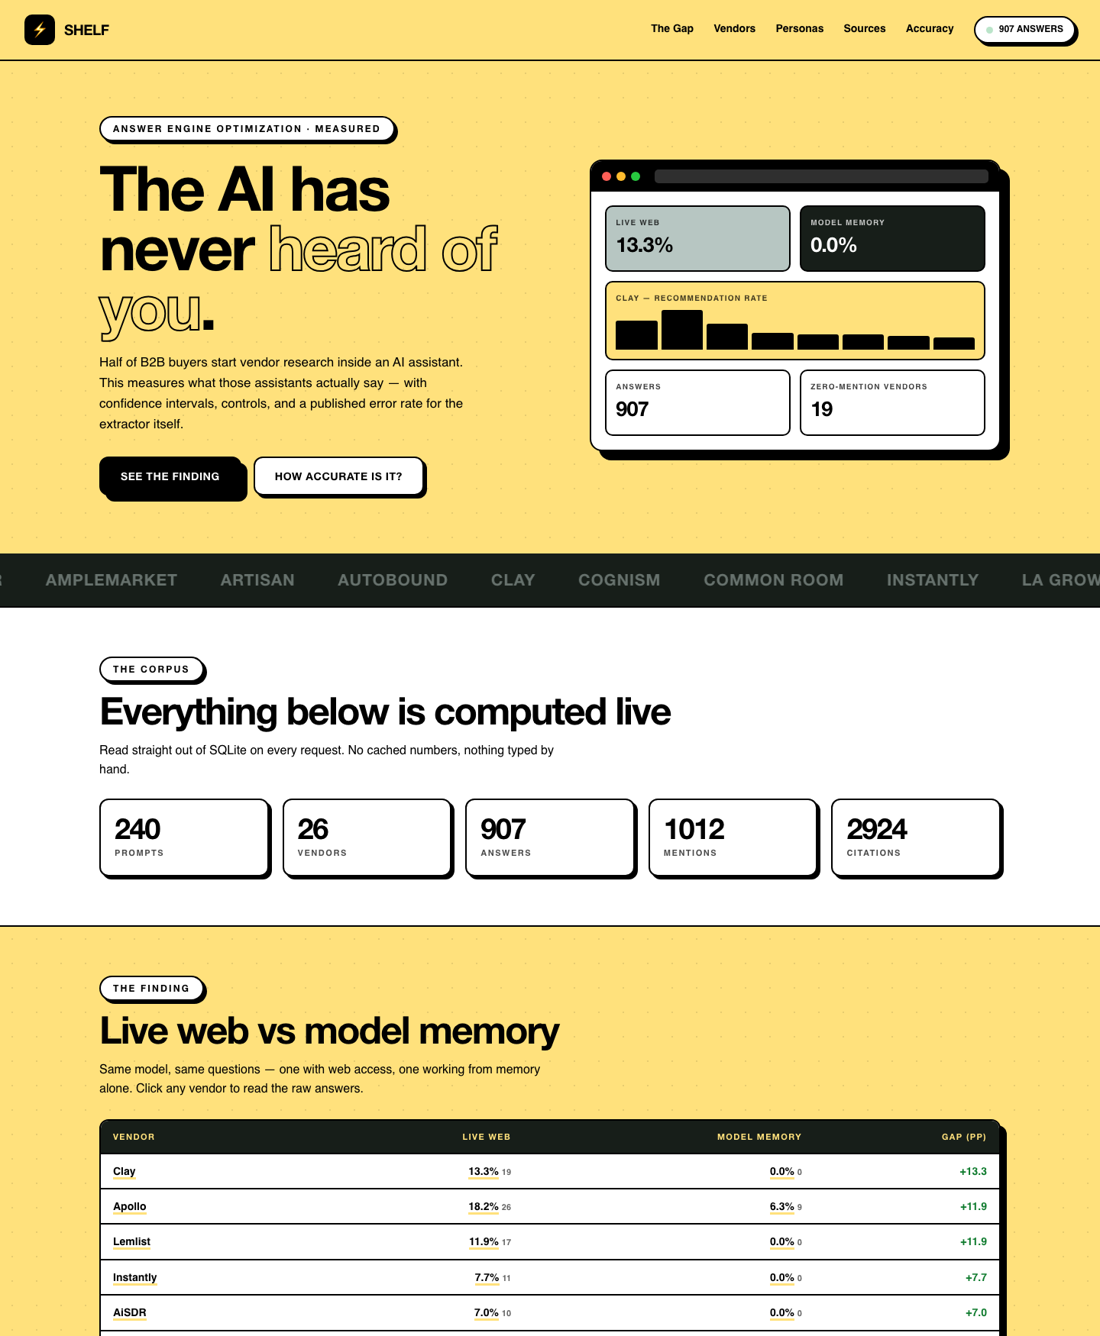
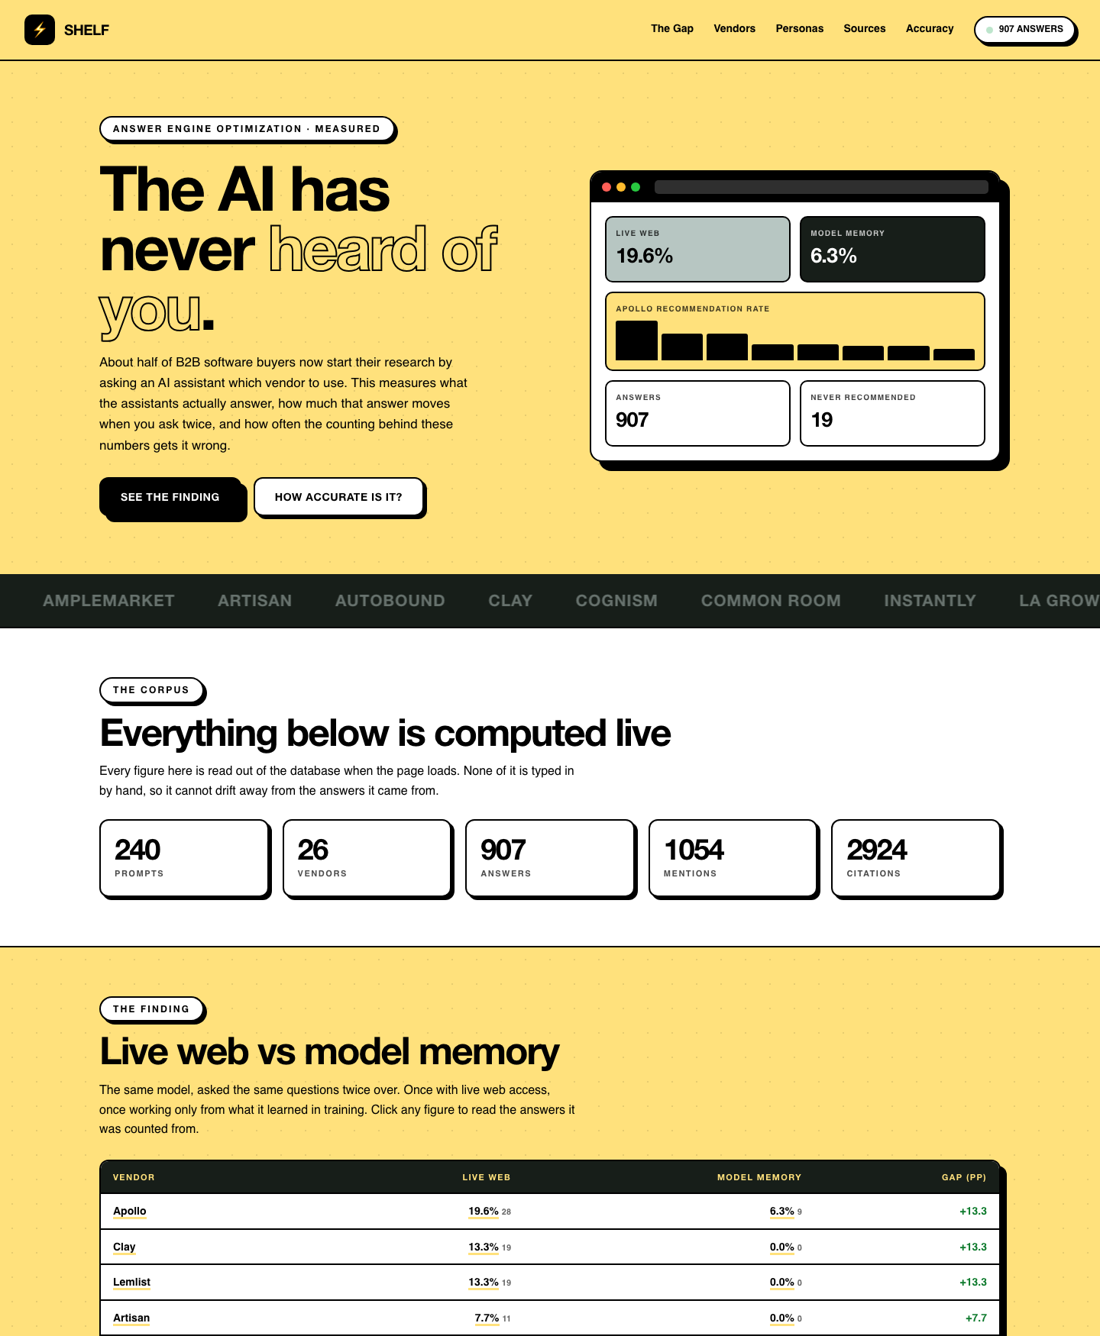
Rewrite the dashboard copy in plain language, and explain what it is claiming
The page was written for someone who already knew the method. Reading it back,
most of it assumed the reader knew what "self-reference exclusion", "paired
comparison" or "stratified" meant, and several figures appeared with no
statement of what they were counting.

- Say what "recommended" actually means, in the section that reports it: the
  answer heads a bullet or bolds the vendor as one of its picks, as against
  naming it in passing, as a competitor, or as what not to buy.
- The source table said "third party" without saying what that meant. The domain
  is already in the row, so the column now just answers its own question, and
  the section explains that these are review sites, blogs and directories with
  no stake in the result.
- Stability said "not enough repeated prompts", which reads like a fault. Three
  engines were only ever asked each question once, so there is genuinely nothing
  to compare. It now says that, and reports how many prompts the figure covers.
- Remove the star ratings from the method cards. They were decoration on cards
  that are not reviews, and stars on a page about measurement invite the reading
  that something here is being scored five out of five.
- Give all three method steps the same outline. Three colours implied three
  kinds of thing when they are just steps one, two and three.
- Footer carries the project line only; it was repeating the corpus counts
  already shown at the top of the page.
- Remove em dashes throughout.
[…]

Changed region(s): [[0.0, 0.2455, 1.0, 1.0], [0.5255, 0.0921, 0.9273, 0.3683]]

diff --git a/shelf/serve.py b/shelf/serve.py
@@ -342,8 +342,8 @@ select{font-family:var(--body);font-weight:700;font-size:13px;background:var(--w
 .circ{width:76px;height:76px;border-radius:50%;display:grid;place-items:center;
       font-family:var(--disp);font-weight:800;font-size:30px;color:var(--ink);
       background:var(--white);border:4px solid var(--sage);margin-bottom:16px}
-.step:nth-child(2) .circ{border-color:var(--yellow)}
-.step:nth-child(3) .circ{border-color:var(--white)}
+/* every step carries the same outline: three different colours read as three
+   different kinds of thing, when these are just steps one, two and three. */
 .step h3{font-size:20px;margin-bottom:6px}
 .step p{font-size:14px;opacity:.8;margin:0}
 
@@ -351,7 +351,6 @@ select{font-family:var(--body);font-weight:700;font-size:13px;background:var(--w
 .quotes{display:grid;grid-template-columns:repeat(auto-fit,minmax(270px,1fr));gap:22px}
 .q{background:var(--white);border:2px solid var(--ink);padding:22px;
    border-radius:0 24px 0 24px;box-shadow:6px 6px 0 0 var(--ink)}
-.q .stars{color:#ffbc2e;font-size:17px;letter-spacing:2px;-webkit-text-stroke:1px #000}
 .q h3{font-size:19px;margin:10px 0 8px}
 .q p{margin:0;font-size:14px}
 
@@ -398,9 +397,10 @@ footer b{color:var(--yellow);font-family:var(--disp);letter-spacing:-.02em}
     <div>
       <span class="eyebrow">Answer Engine Optimization &middot; Measured</span>
       <h1>The AI has never <span class="stroke">heard of you</span>.</h1>
-      <p id="hero-p">Half of B2B buyers start vendor research inside an AI assistant.
-         This measures what those assistants actually say &mdash; with confidence
-         intervals, controls, and a published error rate for the extractor itself.</p>
+      <p id="hero-p">About half of B2B software buyers now start their research by
+         asking an AI assistant which vendor to use. This measures what the
+         assistants actually answer, how much that answer moves when you ask twice,
+         and how often the counting behind these numbers gets it wrong.</p>
       <div class="ctas">
         <button class="btn" onclick="document.querySelector('#gap-sec')
            .scrollIntoView()">See the finding</button>
@@ -416,17 +416,17 @@ footer b{color:var(--yellow);font-family:var(--disp);letter-spacing:-.02em}
       <div class="mock-body">
         <div class="mock-row">
           <div class="mini sage"><div class="k">Live web</div>
-            <div class="v" id="m-live">&mdash;</div></div>
+            <div class="v" id="m-live">&nbsp;</div></div>
           <div class="mini dark"><div class="k">Model memory</div>
-            <div class="v" id="m-mem">&mdash;</div></div>
+            <div class="v" id="m-mem">&nbsp;</div></div>
         </div>
         <div class="mini yel"><div class="k" id="m-name">Vendor</div>
           <div class="spark" id="m-spark"></div></div>
         <div class="mock-row">
           <div class="mini"><div class="k">Answers</div>
-            <div class="v" id="m-runs">&mdash;</div></div>
-          <div class="mini"><div class="k">Zero-mention vendors</div>
-            <div class="v" id="m-zero">&mdash;</div></div>
+            <div class="v" id="m-runs">&nbsp;</div></div>
+          <div class="mini"><div class="k">Never recommended</div>
+            <div class="v" id="m-zero">&nbsp;</div></div>
         </div>
       </div>
     </div>
@@ -438,8 +438,9 @@ footer b{color:var(--yellow);font-family:var(--disp);letter-spacing:-.02em}
 <section class="sec"><div class="wrap">
   <span class="eyebrow">The corpus</span>
   <h2 class="h2" style="margin-top:14px">Everything below is computed live</h2>
-  <p class="lede" style="margin-bottom:24px">Read straight out of SQLite on every
-     request. No cached numbers, nothing typed by hand.</p>
+  <p class="lede" style="margin-bottom:24px">Every figure here is read out of the
+     database when the page loads. None of it is typed in by hand, so it cannot
+     drift away from the answers it came from.</p>
   <div class="cards" id="cards"></div>
 </div></section>
 
@@ -448,8 +449,9 @@ footer b{color:var(--yellow);font-family:var(--disp);letter-spacing:-.02em}
   <div class="wrap">
     <span class="eyebrow">The finding</span>
     <h2 class="h2" style="margin-top:14px">Live web vs model memory</h2>
-    <p class="lede">Same model, same questions &mdash; one with web access, one
-       working from memory alone. Click any vendor to read the raw answers.</p>
+    <p class="lede">The same model, asked the same questions twice over. Once with
+       live web access, once working only from what it learned in training. Click
+       any figure to read the answers it was counted from.</p>
     <div id="gap" style="margin-top:26px"></div>
   </div>
 </section>
@@ -457,6 +459,12 @@ footer b{color:var(--yellow);font-family:var(--disp);letter-spacing:-.02em}
 <section class="sec" id="vis-sec"><div class="wrap">
   <span class="eyebrow">Per engine</span>
   <h2 class="h2" style="margin-top:14px">Who gets recommended</h2>
+  <p class="lede">A vendor counts as recommended when the answer puts it forward
+     as an option to consider, which in practice means it heads a bullet in the
+     list of suggestions or is set in bold as one of the picks. Being named in
+     passing, mentioned as a competitor, or held up as what not to buy counts as
+     mentioned but not recommended. Both are shown below, and how often that call
+     is wrong is measured further down the page.</p>
   <div class="ctl"><select id="eng" onchange="loadEngine()"></select></div>
   <div id="vis"></div>
   <div class="note" id="stab"></div>
@@ -465,8 +473,9 @@ footer b{color:var(--yellow);font-family:var(--disp);letter-spacing:-.02em}
 <section class="sec s-dark" id="slice-sec"><div class="wrap">
   <span class="eyebrow">Buyer persona</span>
   <h2 class="h2" style="margin-top:14px">The role changes the answer</h2>
-  <p class="lede">Ask as procurement and the model largely stops recommending
-     anyone. Same category, same model.</p>
+  <p class="lede">The same question asked by a VP of sales and by someone in
+     procurement does not come back the same. Visibility is not one number, it
+     depends on who is asking.</p>
   <div class="ctl">
     <select id="dim" onchange="loadEngine()">
       <option value="persona">persona</option>
@@ -480,31 +489,40 @@ footer b{color:var(--yellow);font-family:var(--disp);letter-spacing:-.02em}
 <section class="sec s-sage" id="cite-sec"><div class="wrap">
   <span class="eyebrow">Source graph</span>
   <h2 class="h2" style="margin-top:14px">Which pages decide the category</h2>
-  <p class="lede">Vendors that own the cited pages are marked. That is the lever:
-     the retrieval layer is winnable in a way training data is not.</p>
+  <p class="lede">When the model has web access, these are the pages it read
+     before answering. Where a vendor in this study owns the page, it is named.
+     Everything else belongs to someone with no stake in the outcome, review
+     sites, blogs and directories, which is where the category is actually won.</p>
   <div id="cites" style="margin-top:24px"></div>
 </div></section>
 
 <section class="sec" id="cal-sec"><div class="wrap">
   <span class="eyebrow">Honesty check</span>
   <h2 class="h2" style="margin-top:14px">How wrong is the extractor?</h2>
-  <p class="lede">Every figure on this page depends on a rule deciding whether a
-     vendor was recommended. That rule was measured against blind hand labels
-     rather than assumed correct.</p>
+  <p class="lede">Every figure above rests on one judgement call, made by code:
+     was this vendor actually put forward, or just mentioned in passing? To find
+     out how often that judgement is wrong, 24 answers were read and labelled by
+     hand first, then compared against what the code decided.</p>
   <div id="cal" style="margin-top:24px"></div>
   <div class="quotes" style="margin-top:34px">
-    <div class="q"><div class="stars">&#9733;&#9733;&#9733;&#9733;&#9733;</div>
-      <h3>Repetitions are kept</h3>
-      <p>Every prompt is asked five times and no repetition is collapsed at write
-         time. Run-to-run variance is a finding, not noise to average away.</p></div>
-    <div class="q"><div class="stars">&#9733;&#9733;&#9733;&#9733;&#9733;</div>
-      <h3>Self-references excluded</h3>
-      <p>An answer to &ldquo;alternatives to X&rdquo; always repeats X. Counting that
-         handed every vendor a free hit &mdash; 48% of raw mentions.</p></div>
-    <div class="q"><div class="stars">&#9733;&#9733;&#9733;&#9733;&#9733;</div>
-      <h3>Paired comparison</h3>
-      <p>The gap table uses only prompts both engines answered. Comparing overall
-         rates let a prompt-mix difference masquerade as visibility.</p></div>
+    <div class="q">
+      <h3>Every answer is kept</h3>
+      <p>Each question is asked five times and all five answers are stored. Nothing
+         is averaged away at the point of writing, because how much the answer
+         changes between tries turned out to be one of the more useful findings.</p>
+    </div>
+    <div class="q">
+      <h3>A vendor cannot vote for itself</h3>
+      <p>Ask for alternatives to a vendor and the answer repeats that vendor's name
+         every time. Counting those gave each one a free hit on its own questions,
+         and they were 48% of all mentions before they were excluded.</p>
+    </div>
+    <div class="q">
+      <h3>Like compared with like</h3>
+      <p>The comparison above uses only the questions both engines were asked. When
+         it used each engine's overall rate instead, one engine simply being
+         further through its run looked like a real difference in visibility.</p>
+    </div>
   </div>
 </div></section>
 
@@ -512,22 +530,23 @@ footer b{color:var(--yellow);font-family:var(--disp);letter-spacing:-.02em}
   <span class="eyebrow">Method</span>
   <h2 class="h2" style="margin-top:14px">How it works</h2>
   <div class="steps">
-    <div class="step"><div class="circ">1</div><h3>Generate</h3>
-      <p>240 prompts across persona &times; funnel stage &times; intent, stratified so
-         no axis can silently starve.</p></div>
-    <div class="step"><div class="circ">2</div><h3>Collect</h3>
-      <p>Ask each engine repeatedly in seeded-shuffle order, so an interrupted
-         sweep is still a representative sample.</p></div>
-    <div class="step"><div class="circ">3</div><h3>Score</h3>
-      <p>Wilson intervals, Jaccard stability, paired engine comparison &mdash; and
-         a calibration pass against human labels.</p></div>
+    <div class="step"><div class="circ">1</div><h3>Write the questions</h3>
+      <p>240 buyer questions, built from every combination of who is asking, how
+         far along they are, and what they want to know. The mix is balanced so no
+         type of buyer quietly ends up with too few questions to count.</p></div>
+    <div class="step"><div class="circ">2</div><h3>Ask them, repeatedly</h3>
+      <p>Each engine gets the same questions in a shuffled order, five times over.
+         Shuffling means a run that stops early is still a fair sample rather than
+         all of one kind of question.</p></div>
+    <div class="step"><div class="circ">3</div><h3>Count, then check the count</h3>
+      <p>Work out how often each vendor is put forward, how wide the uncertainty
+         is, and how much the answers move. Then check that counting against
+         answers a person labelled by hand.</p></div>
   </div>
 </div></section>
 
 <footer><div class="wrap">
-  <b>SHELF</b> &mdash; an open measurement harness for answer-engine visibility.
-  Stdlib only, no dependencies, runs on free API tiers.
-  <div style="margin-top:10px;opacity:.7" id="foot"></div>
+  <b>SHELF</b>, an open measurement harness for answer engine visibility.
 </div></footer>
 
 <div id="modal" onclick="if(event.target.id=='modal')close_()"><div id="box"></div></div>
@@ -573,9 +592,14 @@ async function boot(){
 
   const sel=$('#eng');
   sel.innerHTML=o.engines.map(e=>
-    `<option value="${e.key}">${e.engine}/${e.model} — ${e.grounded?'live web':'memory'}`
-    +` — n=${e.n}${e.provisional?' (provisional)':''}</option>`).join('');
-  ENG=(o.engines.find(e=>!e.provisional&&!e.panel)||o.engines[0]).key;
+    `<option value="${e.key}">${e.engine}/${e.model} (`
+    +`${e.grounded?'live web':'memory'}, ${e.n} answers`
+    +`${e.provisional?', too few to rely on':''})</option>`).join('');
+  // ?engine=<key> preselects an engine, so a particular view can be linked to
+  // and so the page can be checked in a browser without clicking through it.
+  const want=new URLSearchParams(location.search).get('engine');
+  ENG=(o.engines.find(e=>e.key===want)
+       ||o.engines.find(e=>!e.provisional&&!e.panel)||o.engines[0]).key;
   sel.value=ENG;
 
   if(o.calibration){
@@ -585,12 +609,9 @@ async function boot(){
       <td class="num">${c[f].f1.toFixed(2)}</td></tr>`;
     $('#cal').innerHTML=tbl([['decision'],['precision','num'],['recall','num'],
         ['f1','num']],[row('mentioned'),row('recommended')])
-      +`<div class="note">Measured against ${c.n_labelled} blind hand-labelled
-        answers (sample <code>${c.sample_id}</code>). Published rather than assumed,
-        because a percentage from an unvalidated regex is decoration.</div>`;
+      +`<div class="note">Scored against ${c.n_labelled} answers that were read and
+        labelled by hand, without seeing what the extractor had guessed.</div>`;
   }
-  $('#foot').textContent=`${o.counts.runs} answers · ${o.counts.prompts} prompts · `
-    +`${o.counts.brands} vendors · regenerated live from SQLite`;
   loadGap(); loadEngine(); loadCites();
 }
 
@@ -598,9 +619,9 @@ async function loadGap(){
   const g=await get('/api/gap');
   if(!g.available){
     $('#gap').innerHTML=`<div class="card lg" style="padding:22px">
-      <b>Suppressed by design.</b> ${esc(g.reason)}. The dashboard refuses to draw
-      this comparison until both sides clear the threshold, rather than drawing it
-      thin.</div>`;
+      <b>Not shown yet, on purpose.</b> ${esc(g.reason)}. Drawing this comparison
+      on too few answers would produce a chart nobody should act on, so the page
+      leaves it out until there is enough to say something.</div>`;
     return;
   }
   const LK=g.live.key, MK=g.memory.key;
@@ -615,10 +636,13 @@ async function loadGap(){
   });
   $('#gap').innerHTML=tbl([['vendor'],['live web','num'],['model memory','num'],
       ['gap (pp)','num']],rows)
-    +`<div class="note">Paired on the <b>${g.n_shared_prompts} prompts both engines
-      answered</b>. <b>Never recommended from memory</b> (0 of
-      ${g.n_shared_prompts}, 95% upper bound ${pc(g.zero_hi)}):
-      ${g.never_from_memory.join(', ')}.</div>`;
+    +`<div class="note">Both columns cover the same
+      <b>${g.n_shared_prompts} questions</b>, the ones each engine was asked. The
+      small grey figure is how many of those questions produced a recommendation.
+      <br><br><b>Never recommended from memory.</b> Across all
+      ${g.n_shared_prompts} questions, the model working without web access put
+      these forward zero times. Even at the top of the plausible range that stays
+      under ${pc(g.zero_hi)}: ${g.never_from_memory.join(', ')}.</div>`;
 
   // marquee + hero mockup are driven by the same data, never hard-coded
   const names=g.never_from_memory.length?g.never_from_memory:g.rows.map(r=>r.brand);
@@ -627,7 +651,7 @@ async function loadGap(){
   $('#m-zero').textContent=g.never_from_memory.length;
   const top=g.rows[0];
   if(top){
-    $('#m-name').textContent=top.brand+' — recommendation rate';
+    $('#m-name').textContent=top.brand+' recommendation rate';
     $('#m-live').textContent=pc(top.live);
     $('#m-mem').textContent=pc(top.mem);
     const vals=g.rows.slice(0,8).map(r=>r.live);
@@ -645,18 +669,25 @@ async function loadEngine(){
       ['mentioned','num'],['share of voice','num'],['']],
     v.rows.map(r=>`<tr><td>${drill(r.brand)}</td>
       <td class="num">${pc(r.rec_rate)}</td>
-      <td class="num ci">${pc(r.rec_lo)}–${pc(r.rec_hi)}</td>
+      <td class="num ci">${pc(r.rec_lo)} to ${pc(r.rec_hi)}</td>
       <td class="num">${pc(r.mention_rate)}</td>
       <td class="num">${pc(r.share_of_voice)}</td>
       <td><div class="bar"><i style="width:${r.rec_rate/max*100}%"></i></div></td>
       </tr>`));
 
   const s=await get('/api/stability?engine='+encodeURIComponent(ENG));
+  // Not an error state: some engines were only ever asked each question once,
+  // so there is no second answer to compare the first one against. Saying that
+  // plainly beats "not enough data", which reads like something is broken.
   $('#stab').innerHTML=(s.set_stability==null||s.coinflip_rate==null)
-    ?'Not enough repeated prompts on this engine to measure stability yet.'
-    :`<b>Set stability ${s.set_stability.toFixed(3)} · coin-flip rate
-      ${pc(s.coinflip_rate)}</b> — ask the same question twice and this share of
-      (prompt, vendor) pairs changes. A single-shot audit of this category is noise.`;
+    ? `Stability needs the same question asked more than once, and every prompt on
+       this engine was asked a single time, so there is nothing to compare yet.
+       The two engines with repeats are the ones the findings rest on.`
+    : `<b>Set stability ${s.set_stability.toFixed(3)}, coin-flip rate
+       ${pc(s.coinflip_rate)}.</b> Asked the same question twice, this share of
+       (prompt, vendor) pairs changes. Measured across
+       ${s.prompts_with_reps} prompts that were repeated. Checking this category
+       once and calling it a result would be reporting noise.`;
 
   const sl=await get(`/api/slice?engine=${encodeURIComponent(ENG)}&dim=${$('#dim').value}`);
   const ent=Object.entries(sl.slices);
@@ -675,11 +706,11 @@ async function loadEngine(){
 async function loadCites(){
   const c=await get('/api/citations');
   $('#cites').innerHTML=tbl([['domain'],['citations','num'],['prompts','num'],
-      ['owned by a vendor here']],
+      ['owned by a vendor in this study']],
     c.rows.map(r=>`<tr><td>${esc(r.domain)}</td>
       <td class="num">${r.citations}</td><td class="num">${r.prompts}</td>
       <td>${r.owned_by?`<span class="pill y">${esc(r.owned_by)}</span>`
-                      :'<span class="ci">third party</span>'}</td></tr>`));
+                      :'<span class="ci">no</span>'}</td></tr>`));
 }
 
 async function evidence(brand,eng){
@@ -689,8 +720,8 @@ async function evidence(brand,eng){
   const e=await get(`/api/evidence?brand=${encodeURIComponent(brand)}`
     +`&engine=${encodeURIComponent(eng)}`);
   $('#box').innerHTML=`<h3>${esc(brand)}</h3>
-    <div class="meta">${e.items.length} answers naming it on ${esc(e.engine||'')}
-      — self-references excluded</div>
+    <div class="meta">${e.items.length} answers naming it on ${esc(e.engine||'')},
+      leaving out questions that named it first</div>
     <button class="btn" onclick="close_()">Close</button>`
     +(e.items.map(i=>`<div class="ev">
         <div class="q2">${esc(i.prompt)}</div>
@@ -699,8 +730,9 @@ async function evidence(brand,eng){
                          :'<span class="pill">mentioned only</span>'}</div>
         <pre>${esc(i.answer)}</pre></div>`).join('')
       ||`<div class="ev"><b>Not named once</b> in any answer from
-          <code>${esc(eng)}</code>. For a vendor that exists and sells into this
-          category, an empty panel is the finding, not a missing page.</div>`);
+          <code>${esc(eng)}</code>. This vendor exists and sells into this
+          category, so an empty panel here is the result, not a page that failed
+          to load.</div>`);
   window.scrollTo({top:0});
 }
 function close_(){
